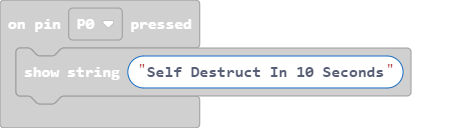
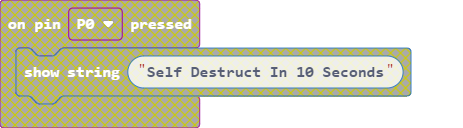
Update main.blocks, main.ts

diff --git a/main.ts b/main.ts
@@ -1,8 +1,5 @@
 let isSwitched = false
 let force = 0
-input.onPinPressed(TouchPin.P0, function () {
-    basic.showString("Self Destruct In 10 Seconds")
-})
 input.onButtonPressed(Button.A, function () {
     for (let index = 0; index < 5; index++) {
         basic.showIcon(IconNames.Butterfly)
